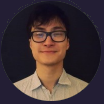
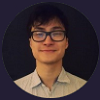
worked on the header, adding links to linkedin/github and a picture

diff --git a/src/Components/PageHeader.js b/src/Components/PageHeader.js
@@ -1,20 +1,82 @@
 import React from 'react';
 import '../App.css';
-import {tileSize} from '../Scripts/Global'
+import { tileSize } from '../Scripts/Global'
 
-function PageHeader(props){
-    return (
-        <div style={{
-            position:"absolute",
-             width:props.screenWidth, height: tileSize*3,
-            justifyContent: "center", alignItems: "center", display: "flex",
-            backgroundColor: "rgb(15,10,15,0.6)"
-          }} >
-            <p style={{ color: "white" }}>nickynw.github.io</p>
-            
-          </div>
 
-    )
+const profileStyle = {
+  width: 80,
+  height: 80,
 }
 
-export {PageHeader}
+const linkedinStyle = {
+  width: 30,
+  height: 30,
+  margin: 8,
+}
+
+const githubStyle = {
+  width: 30,
+  height: 30,
+  margin: 8,
+}
+
+const emailStyle = {
+  width: 30,
+  height: 20,
+  margin: 5,
+  opacity: 0.8
+}
+
+
+function PageHeader(props) {
+  return (
+
+
+    <div className="headerContainer" style={{
+      position: "absolute",
+      width: props.screenWidth, height: tileSize * 3,
+      justifyContent: "center", alignItems: "center", display: "flex",
+    }} >
+
+      <div style={{
+        width: "20%",
+        padding: 30,
+      }}>
+        <a href="https://nickynw.github.io/"><span className="img" style={{ color: "white", fontSize: 22 }}>nickynw.github.io</span> </a>
+        <br /><span style={{ color: "grey", fontSize: 16 }}>personal project website</span>
+      </div>
+
+      <div style={{
+        width: "37%",
+      }}>
+        <p style={{ color: "#b7bcc4", fontSize: 13 }}>
+          Hello, my name is Nick Wilson. This site presents my personal projects together in one place for you to explore.
+         <span className="highlight"> <u>I am currently looking for a job as a junior software engineer (as of March 2020).</u> </span>
+         Also, please feel free to contact me about purchasing any available art pieces, or for comissioning new projects (art or software). Cheers, Nick.
+          </p>
+      </div>
+
+
+
+      <div style={{
+        width: "37%",
+        display: "flex",
+        justifyContent: "center",
+        alignItems: "center"
+      }}>
+        <img style={profileStyle} src={"/images/profile.png"} ></img>
+        <a href="https://www.linkedin.com/in/nicknwilson/"><img className="img" style={linkedinStyle} src={"/images/linkedin.png"} ></img></a>
+        <a href="https://github.com/nickynw"><img className="img" style={githubStyle} src={"/images/github.png"} ></img></a>
+        <img style={emailStyle} src={"/images/email.png"} ></img>
+        <p style={{ color: "white", fontSize: 13 }}><a href="mailto:nicknwilson@outlook.com">nicknwilson@outlook.com</a></p>
+      </div>
+
+
+
+
+    </div>
+
+  )
+}
+
+export { PageHeader }

diff --git a/public/404.html b/public/404.html
@@ -1,0 +1,42 @@
+
+<!DOCTYPE html>
+<html>
+  <head>
+    <meta charset="utf-8">
+    <title>Single Page Apps for GitHub Pages</title>
+    <script type="text/javascript">
+      // Single Page Apps for GitHub Pages
+      // https://github.com/rafrex/spa-github-pages
+      // Copyright (c) 2016 Rafael Pedicini, licensed under the MIT License
+      // ----------------------------------------------------------------------
+      // This script takes the current url and converts the path and query
+      // string into just a query string, and then redirects the browser
+      // to the new url with only a query string and hash fragment,
+      // e.g. http://www.foo.tld/one/two?a=b&c=d#qwe, becomes
+      // http://www.foo.tld/?p=/one/two&q=a=b~and~c=d#qwe
+      // Note: this 404.html file must be at least 512 bytes for it to work
+      // with Internet Explorer (it is currently > 512 bytes)
+
+      // If you're creating a Project Pages site and NOT using a custom domain,
+      // then set segmentCount to 1 (enterprise users may need to set it to > 1).
+      // This way the code will only replace the route part of the path, and not
+      // the real directory in which the app resides, for example:
+      // https://username.github.io/repo-name/one/two?a=b&c=d#qwe becomes
+      // https://username.github.io/repo-name/?p=/one/two&q=a=b~and~c=d#qwe
+      // Otherwise, leave segmentCount as 0.
+      var segmentCount = 0;
+
+      var l = window.location;
+      l.replace(
+        l.protocol + '//' + l.hostname + (l.port ? ':' + l.port : '') +
+        l.pathname.split('/').slice(0, 1 + segmentCount).join('/') + '/?p=/' +
+        l.pathname.slice(1).split('/').slice(segmentCount).join('/').replace(/&/g, '~and~') +
+        (l.search ? '&q=' + l.search.slice(1).replace(/&/g, '~and~') : '') +
+        l.hash
+      );
+
+    </script>
+  </head>
+  <body>
+  </body>
+</html>

diff --git a/public/index.html b/public/index.html
@@ -24,6 +24,36 @@
       work correctly both with client-side routing and a non-root public URL.
       Learn how to configure a non-root public URL by running `npm run build`.
     -->
+      <!-- Start Single Page Apps for GitHub Pages -->
+      <script type="text/javascript">
+        // Single Page Apps for GitHub Pages
+        // https://github.com/rafrex/spa-github-pages
+        // Copyright (c) 2016 Rafael Pedicini, licensed under the MIT License
+        // ----------------------------------------------------------------------
+        // This script checks to see if a redirect is present in the query string
+        // and converts it back into the correct url and adds it to the
+        // browser's history using window.history.replaceState(...),
+        // which won't cause the browser to attempt to load the new url.
+        // When the single page app is loaded further down in this file,
+        // the correct url will be waiting in the browser's history for
+        // the single page app to route accordingly.
+        (function(l) {
+          if (l.search) {
+            var q = {};
+            l.search.slice(1).split('&').forEach(function(v) {
+              var a = v.split('=');
+              q[a[0]] = a.slice(1).join('=').replace(/~and~/g, '&');
+            });
+            if (q.p !== undefined) {
+              window.history.replaceState(null, null,
+                l.pathname.slice(0, -1) + (q.p || '') +
+                (q.q ? ('?' + q.q) : '') +
+                l.hash
+              );
+            }
+          }
+        }(window.location))
+      </script>
     <title>nickynw website</title>
   </head>
   <body>

diff --git a/src/Views/Error404.js b/src/Views/Error404.js
@@ -1,0 +1,34 @@
+import React from 'react';
+import '../App.css';
+
+import { PageHeader } from '../Components/PageHeader'
+import { Graph } from '../Components/Graph'
+import { GridTransition } from "../Components/GridTransition"
+import { NavLink, Switch, Route } from 'react-router-dom';
+import { screenHeight, screenWidth } from '../Scripts/Global'
+
+
+class Error404 extends React.Component{
+    componentDidMount(){
+        this.props.history.push('/404')
+    }
+
+  render(){
+    return(
+    <div className="mainContainer" style={{
+        marginTop: 120,
+        overflow: "hidden",
+        overflowX: " hidden",
+        width: screenWidth,
+        height: "100%",
+        boxShadow: "5px 5px 10px 0 #060017, 5px 5px 5px #504080",
+    }}> 
+        <GridTransition history={this.props.history} screenWidth={screenWidth} screenHeight={screenHeight} />
+
+       
+
+    </div>)
+}
+}
+
+export {Error404}

diff --git a/src/App.js b/src/App.js
@@ -7,6 +7,7 @@ import { GridTransition } from "./Components/GridTransition"
 import { NavLink, Switch, Route } from 'react-router-dom';
 import {Home} from "./Views/Home";
 import {Project} from "./Views/Project";
+import {Error404} from './Views/Error404'
 import {screenHeight, screenWidth} from './Scripts/Global'
 
 
@@ -20,6 +21,7 @@ const Main = () => (
   <Switch>
     <Route exact path='/' component={Home}></Route>
     <Route path='/project' component={Project}></Route>
+    <Route path='/' component={Error404}></Route>
   </Switch>
 );
 

diff --git a/src/App.css b/src/App.css
@@ -35,6 +35,14 @@
   align-items: center;
 }
 
+.img { 
+  opacity: 0.7; 
+} 
+
+.img:hover { 
+  opacity: 1; 
+}
+
 .Fixed
 {
     position: fixed;
@@ -53,6 +61,17 @@
   .App-logo {
     animation: App-logo-spin infinite 20s linear;
   }
+}
+
+
+.headerContainer{
+  background-size: 40px 40px;
+  background-image:
+
+      linear-gradient(to right, #2d2752 1px, transparent 1px),
+      linear-gradient(to bottom, #2d2752 1px, transparent 1px),
+      linear-gradient(rgb(15,10,15,0.6), rgb(15,10,15,0.6));
+  
 }
 
 .mainContainer{

diff --git a/src/index.js b/src/index.js
@@ -5,6 +5,9 @@ import App from './App';
 import * as serviceWorker from './serviceWorker';
 import { BrowserRouter } from 'react-router-dom';
 
+
+
+
 ReactDOM.render((
     <BrowserRouter>
       <App />
